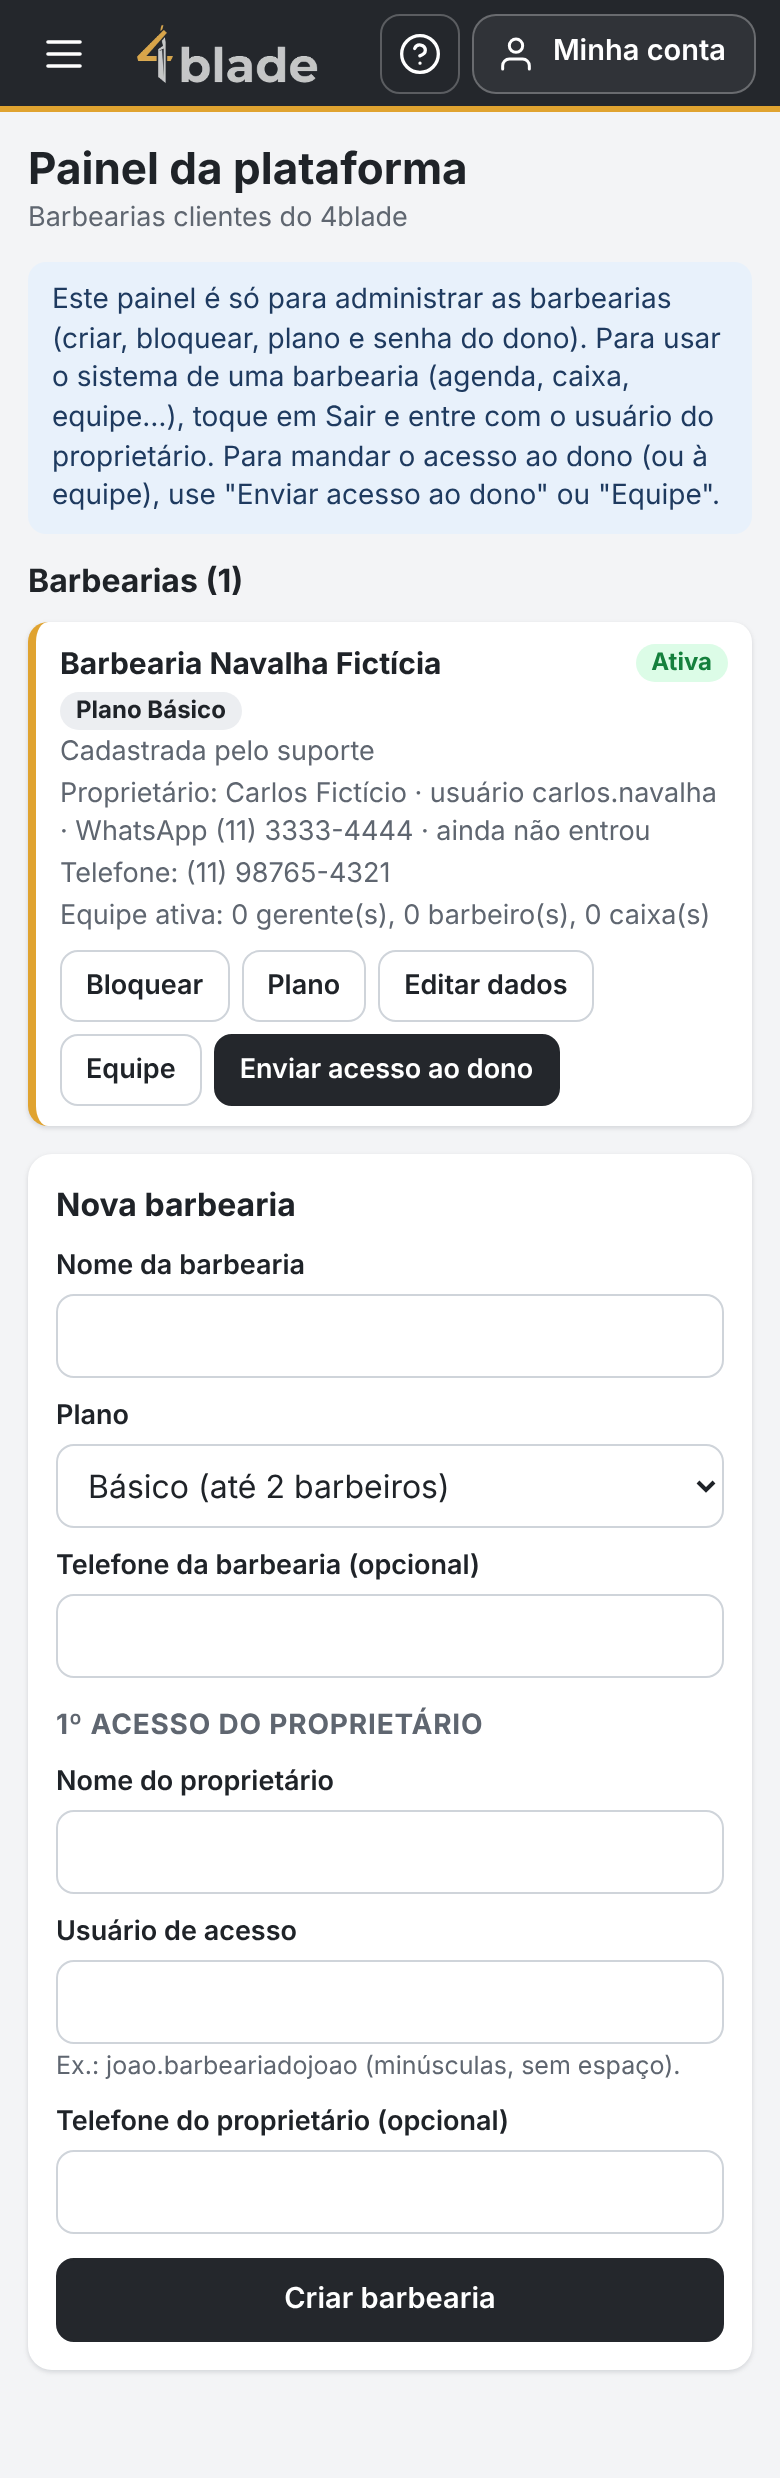
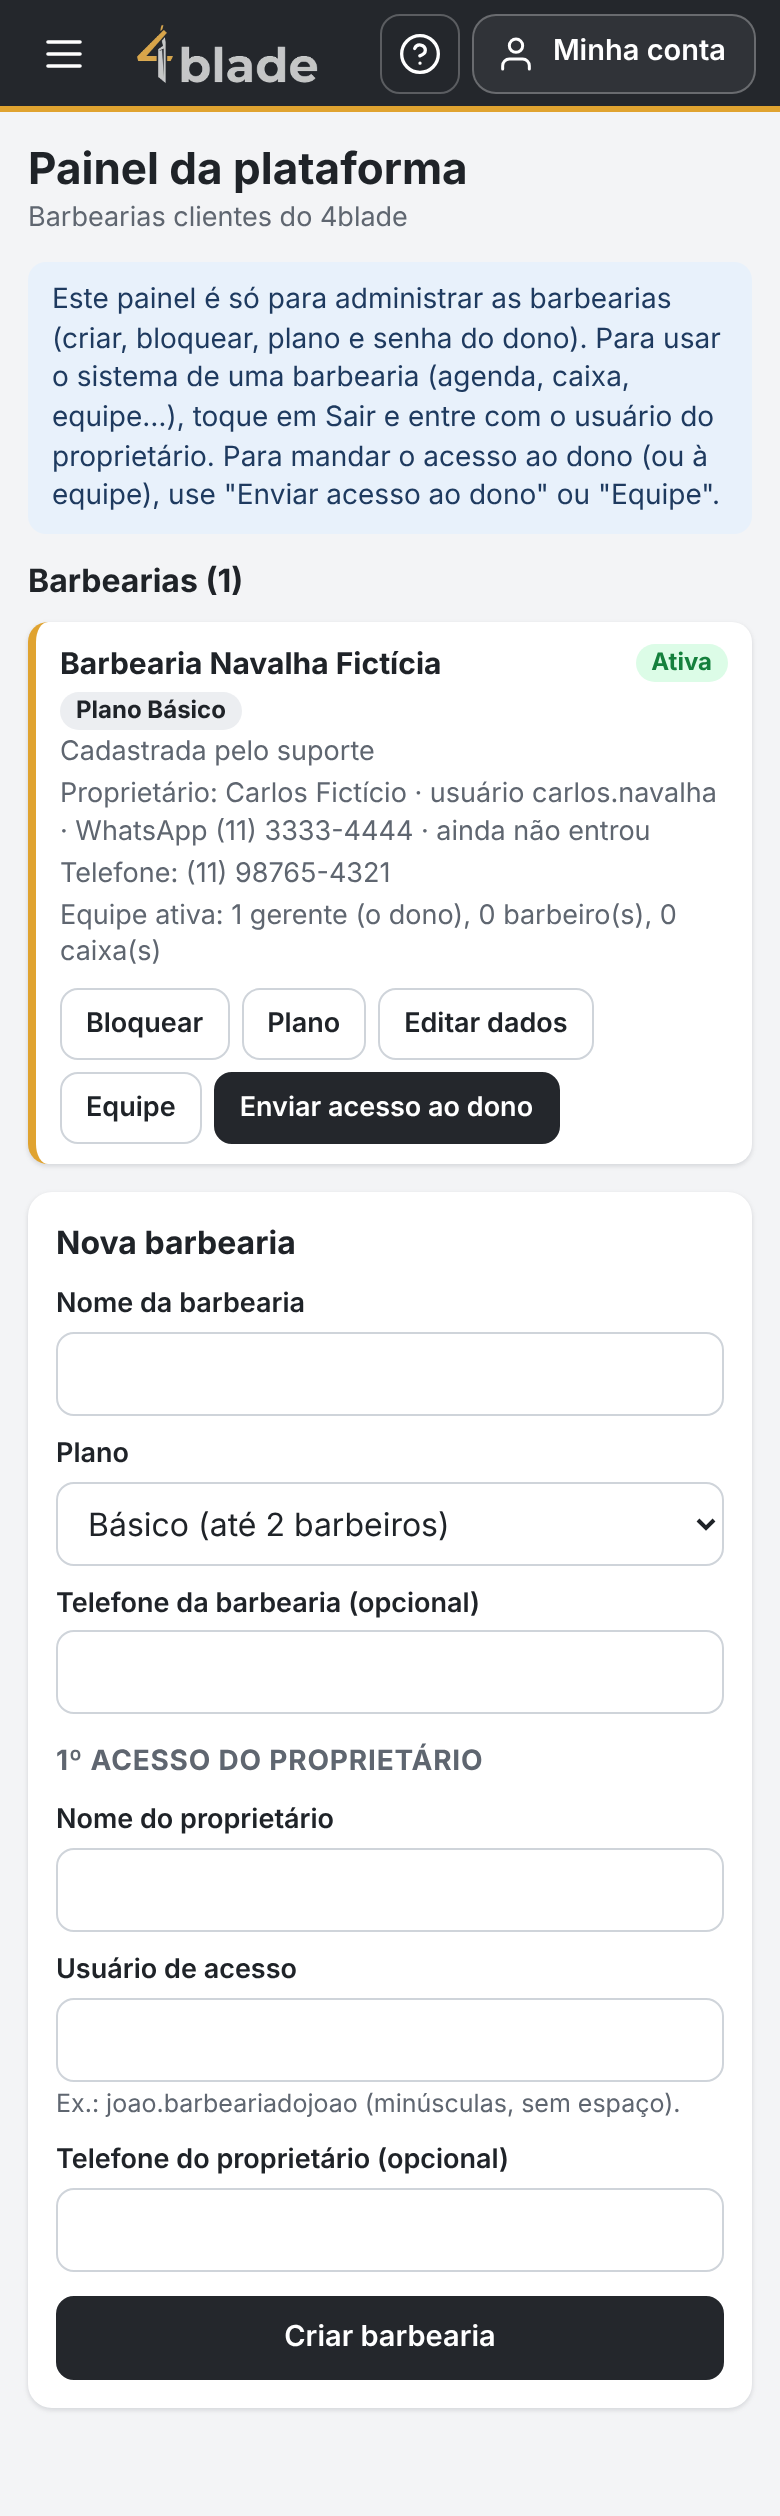
Painel da plataforma: o dono conta como gerente na equipe ativa
Claude-Session: https://claude.ai/code/session_01R9hMmP8YX9EsdpaJW4w2cf

diff --git a/public/app.js b/public/app.js
@@ -1163,6 +1163,12 @@ function irParaInicial() {
 }
 
 // ---------- PLATAFORMA ----------
+// O dono já é gerente (seção 16): entra na conta dos gerentes.
+function textoGerentes(b) {
+  const outros = b.usuariosAtivos.gerente;
+  if (!b.proprietario) return `${outros} gerente(s)`;
+  return outros ? `${outros + 1} gerentes (o dono + ${outros})` : "1 gerente (o dono)";
+}
 async function telaPlataforma() {
   const { barbearias } = await api("/plataforma/barbearias");
   const form = el("form", { class: "cartao" },
@@ -1201,7 +1207,7 @@ async function telaPlataforma() {
       b.assinatura?.origem === "asaas" ? el("p", { class: "suave", text: `Assinou pelo site · ${reais(b.assinatura.valorCentavos)}/${b.assinatura.ciclo === "anual" ? "ano" : "mês"} · ${textoSituacao(b.assinatura)}${b.email ? ` · ${b.email}` : ""}` }) : null,
       el("p", { class: "suave", text: `Proprietário: ${b.proprietario?.nome || "—"} · usuário ${b.proprietario?.login || "—"}${b.proprietario?.telefone ? ` · WhatsApp ${fone(b.proprietario.telefone)}` : ""}${b.proprietario?.trocaPendente ? " · ainda não entrou" : ""}` }),
       b.telefone ? el("p", { class: "suave", text: `Telefone: ${fone(b.telefone)}` }) : null,
-      el("p", { class: "suave", text: `Equipe ativa: ${b.usuariosAtivos.gerente} gerente(s), ${b.usuariosAtivos.barbeiro} barbeiro(s), ${b.usuariosAtivos.caixa} caixa(s)` }),
+      el("p", { class: "suave", "data-teste": "equipe-ativa", text: `Equipe ativa: ${textoGerentes(b)}, ${b.usuariosAtivos.barbeiro} barbeiro(s), ${b.usuariosAtivos.caixa} caixa(s)` }),
       b.bloqueada && b.motivoBloqueio ? el("p", { class: "suave", text: `Motivo do bloqueio: ${b.motivoBloqueio}` }) : null,
       el("div", { class: "item-acoes" },
         botao(b.bloqueada ? "Desbloquear" : "Bloquear", () => pedirMotivo(

diff --git a/CLAUDE.md b/CLAUDE.md
@@ -123,6 +123,8 @@ App de gestão para barbearias, vendido por assinatura para várias barbearias (
 
 - 16/11/2026: **Mensagens: escolha da mensagem pronta por botões** (pedido do responsável: a lista suspensa ficava bagunçada no celular). `#env-modelo` virou um quadro com 2 grupos de botões (`.chip-modelo[data-modelo]`, ativo destacado): "Do horário marcado" (só no modo do dia) e "Para qualquer cliente", + "Escrever do zero". Cache do sw `4blade-v14`. Testado em `test/navegador-melhorias.mjs`.
 
+- 16/11/2026: Painel da plataforma: "Equipe ativa" conta o dono como gerente (`textoGerentes`: "1 gerente (o dono)" / "N gerentes (o dono + X)"). Testado em `test/navegador-e1.mjs`.
+
 ## Versão de teste publicada (Cloudflare)
 - Endereço: https://4blade-teste.terraplanagem.workers.dev (Worker `4blade-teste`, banco D1 `4blade-db-teste`, região ENAM). Dados FICTÍCIOS apenas.
 - Publicar de novo: `npx wrangler deploy --config wrangler.teste.toml`; migrações: `npx wrangler d1 migrations apply 4blade-db-teste --remote --config wrangler.teste.toml`.
